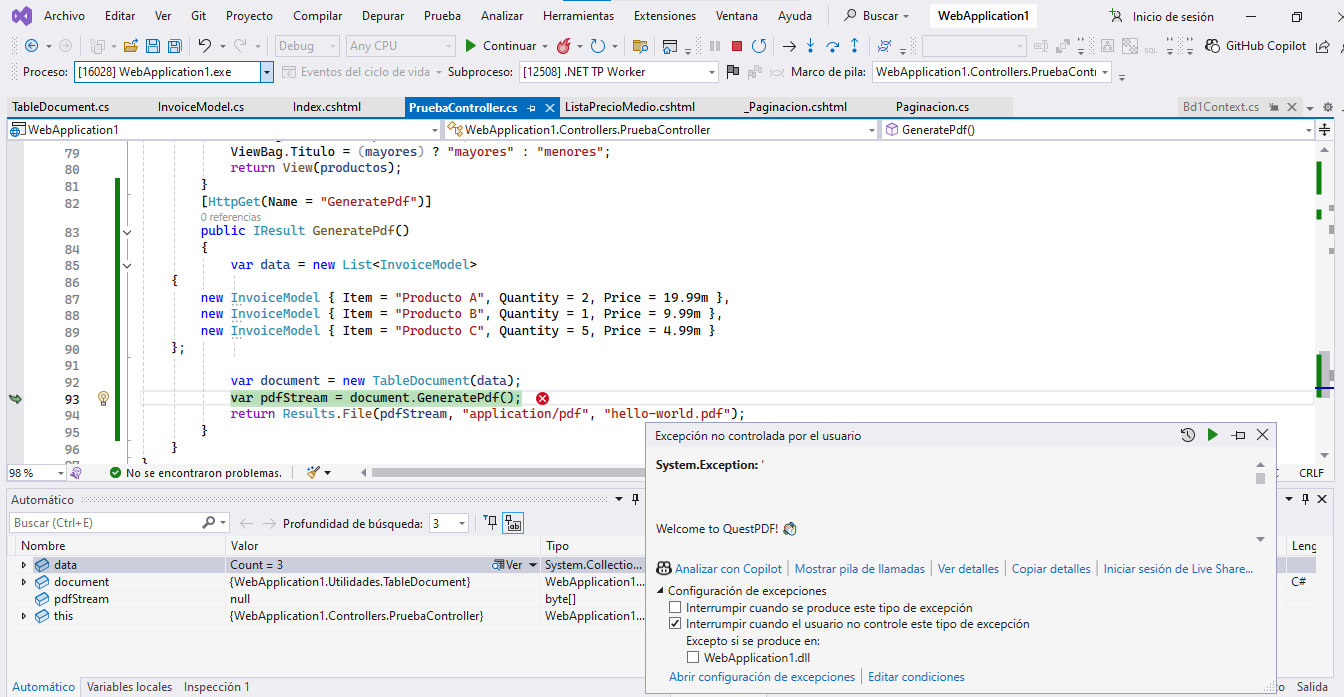
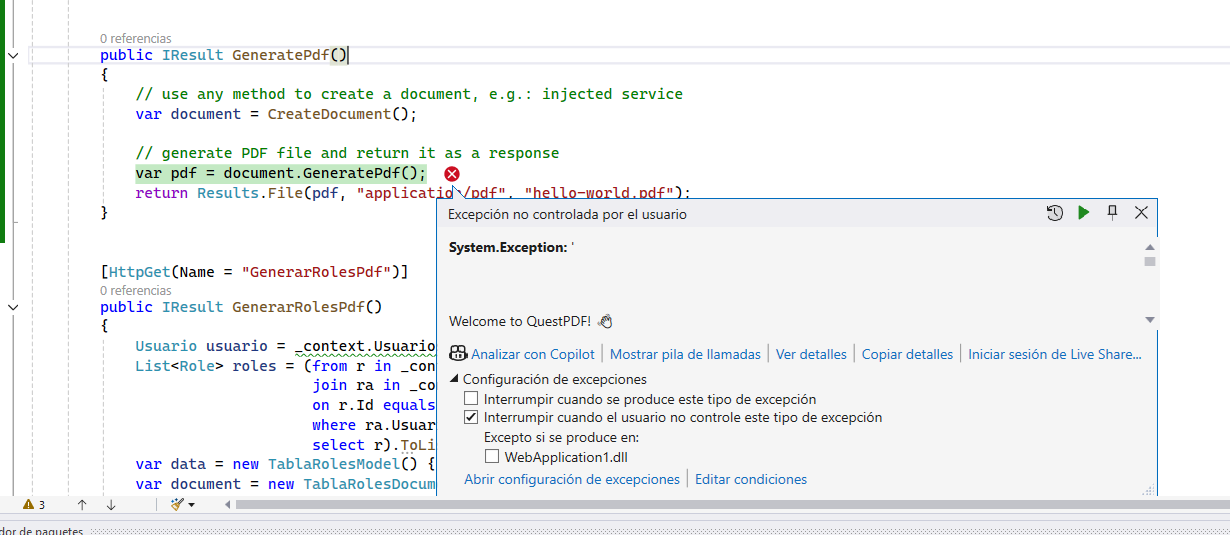
Actualización QuestPdf

diff --git a/10_questpdf/01_index.md b/10_questpdf/01_index.md
@@ -1,112 +1,116 @@
 # QuestPDF
 
+QuestPdf es una librería para programadores de C#. Esta librería permite diseñar, implementar y generar documentos PDF, según la documentación oficial disponible en [https://www.questpdf.com/](https://www.questpdf.com/)
+
+
+**EJEMPLO**.  Diseño de un Pdf de ejemplo (tomando de la documentación oficial de QuestPdf)
+
+
 ## Paso 1. Instale QuestPdf
 
-`https://www.questpdf.com/quick-start.html`  
+[https://www.questpdf.com/quick-start.html](https://www.questpdf.com/quick-start.html)  
 
-## Paso 2. Cree una función en PruebaController.
+## Paso 2. En la documentación de QuestPdf localice la sección Integration with ASP.NET
 
-Esta función permitirá crear un informe en formato PDF.
-(Sección ASP.NET)
+### Ingrese al sitio oficial de QuestPdf
+El sitio oficial es [https://www.questpdf.com](https://www.questpdf.com)  
 
-**Ejecute la aplcicación par ver el informe de muesta**
+### Localice la sección Implementación con ASP.NET
 
-## Paso 3. Cree una tabla utilizando QuestPdf
+Luego de ingresar al sitio web de QuestPdf, en la parte izquierda vaya hasta el final (hacia abajo). Al final encontrará un link titulado [Integration with ASP.NET](https://www.questpdf.com/examples/aspnet-integration.html). Allí está la codificación básica para generar y desplegar un archivo PDF con ASP.NET.  
+
+## Paso 3. En PruebaController, agregue una función llamada GeneratePdf
+
+El nombre de la función será `GeneratePdf`. La función `GeneratePdf` también ejecuta otra función llamada `CreateDocument()`, que es quien finalmente genera la estructura del documento PDF.  
+
+:green_book: El código fuente de la función puede ser copiado del sitio oficial de QuestPdf y pegado en el controlador `PruebaController` 
 
 ```csharp
-namespace WebApplication1.Utilidades
+[HttpGet(Name = "GeneratePdf")]
+public IResult GeneratePdf()
 {
-    public class InvoiceModel
-    {
-        public string Item { get; set; }
-        public int Quantity { get; set; }
-        public decimal Price { get; set; }
-    }
+    // use any method to create a document, e.g.: injected service
+    var document = CreateDocument();
+    
+    // generate PDF file and return it as a response
+    var pdf = document.GeneratePdf();
+    return Results.File(pdf, "application/pdf", "hello-world.pdf");
 }
 ```
 
+## Paso 4. En PruebaController, agregue una función llamada CreateDocument
+
+:green_book: Igual como hizo con la función `GenerartePdf` el código fuente puede ser copiado del sitio web oficial de QuestPdf.  
+
 ```csharp
-using QuestPDF.Fluent;
-using QuestPDF.Helpers;
-using QuestPDF.Infrastructure;
-using QuestPDF.Drawing;
-using Microsoft.AspNetCore.Mvc;
-using System.Collections.Generic;
-using System.IO;
-namespace WebApplication1.Utilidades
+QuestPDF.Infrastructure.IDocument CreateDocument()
 {
-    public class TableDocument : IDocument
+    return Document.Create(container =>
     {
-        private List<InvoiceModel> _items;
-
-        public TableDocument(List<InvoiceModel> items)
+        container.Page(page =>
         {
-            _items = items;
-        }
+            page.Size(PageSizes.A4);
+            page.Margin(2, Unit.Centimetre);
+            page.PageColor(Colors.White);
+            page.DefaultTextStyle(x => x.FontSize(20));
 
-        public DocumentMetadata GetMetadata() => DocumentMetadata.Default;
+            page.Header()
+                .Text("Hello PDF!")
+                .SemiBold().FontSize(36).FontColor(Colors.Blue.Medium);
 
-        public void Compose(IDocumentContainer container)
-        {
-            container.Page(page =>
-            {
-                page.Margin(30);
-                page.Content()
-                    .Table(table =>
-                    {
-                        table.ColumnsDefinition(columns =>
-                        {
-                            columns.RelativeColumn(4); // Item
-                            columns.RelativeColumn(2); // Quantity
-                            columns.RelativeColumn(2); // Price
-                        });
+            page.Content()
+                .PaddingVertical(1, Unit.Centimetre)
+                .Column(x =>
+                {
+                    x.Spacing(20);
+                    x.Item().Text(Placeholders.LoremIpsum());
+                    x.Item().Image(Placeholders.Image(200, 100));
+                });
 
-                        // Header
-                        table.Header(header =>
-                        {
-                            header.Cell().Element(CellStyle).Text("Item");
-                            header.Cell().Element(CellStyle).Text("Qty");
-                            header.Cell().Element(CellStyle).Text("Price");
-
-                            static IContainer CellStyle(IContainer container) =>
-                                container.DefaultTextStyle(x => x.SemiBold()).PaddingVertical(5).BorderBottom(1).BorderColor(Colors.Grey.Medium);
-                        });
-
-                        // Rows
-                        foreach (var item in _items)
-                        {
-                            table.Cell().Element(CellStyle).Text(item.Item);
-                            table.Cell().Element(CellStyle).Text(item.Quantity.ToString());
-                            table.Cell().Element(CellStyle).Text($"${item.Price:N2}");
-
-                            static IContainer CellStyle(IContainer container) =>
-                                container.PaddingVertical(5);
-                        }
-                    });
+            page.Footer()
+                .AlignCenter()
+                .Text(x =>
+                {
+                    x.Span("Page ");
+                    x.CurrentPageNumber();
+                });
             });
-        }
+        });
     }
+```
+
+## Paso 5. Agregue un link para visualizar el archivo PDF.
+
+El link puede ser agreguardo en la vista `Index` de `PruebaController` 
+
+*Captura del error*  
+
+![image](./img/error1_license.png)  
+
+![image](./img/error2_license.png)  
+
+Esta es la instrucción para agregar el link `<a asp-controller="Prueba" asp-action="GeneratePdf">Generar PDF</a>`  
+
+## Paso 6. Ejecute la aplicación
+
+:orange_book: A la hora de hacer clic en el link para genear el archivo PDF seguramente verá un mensaje de error que se debe porque no hemos especificado la licencia de QuestPdf. Entonces, será necesario que agregue esta instrucción `QuestPDF.Settings.License = LicenseType.Community;`. Para este ejemplo, yo agregué la línea en el constructor de `PruebaController`.  
+
+Especificando la licencia de QuestPdf  
+
+```csharp
+public PruebaController(Bd1Context context)
+{
+    _context = context;
+    QuestPDF.Settings.License = LicenseType.Community; // APLICA LA LICENCIA DE QUESTPDF
 }
 ```
 
-```csharp
-        [HttpGet(Name = "GeneratePdf")]
-        public IResult GeneratePdf()
-        {
-            var data = new List<InvoiceModel>
-            {
-                new InvoiceModel { Item = "Producto A", Quantity = 2, Price = 19.99m },
-                new InvoiceModel { Item = "Producto B", Quantity = 1, Price = 9.99m },
-                new InvoiceModel { Item = "Producto C", Quantity = 5, Price = 4.99m }
-            };
 
-            var document = new TableDocument(data);
-            var pdfStream = document.GeneratePdf();
-            return Results.File(pdfStream, "application/pdf", "hello-world.pdf");
-        }
-```
+*Link para generar el PDF*  
 
-## Paso 5. Ejercicio
+![image](./img/link_generatepdf.png)
 
-Cree una tabla con la información de los usuarios y roles.
+*Resultado obtenido*  
 
+
+![image](./img/resultado_pdf.png)
